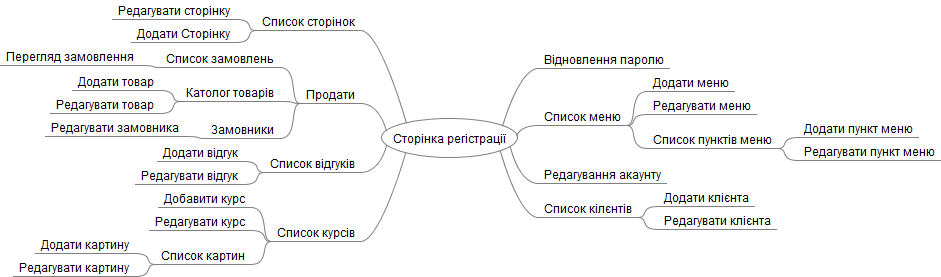
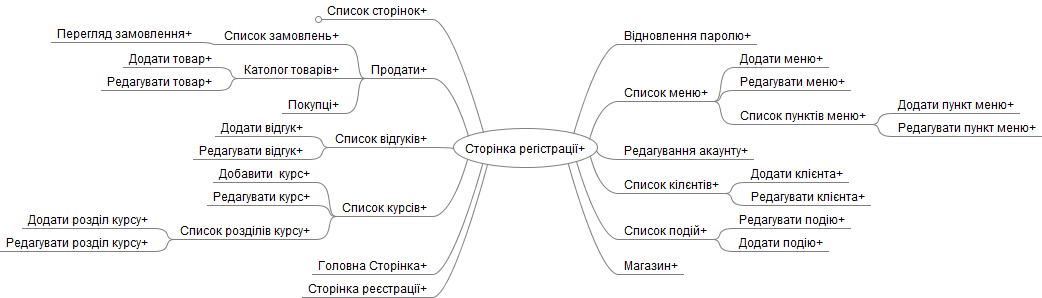
added admin panel pages

Changed region(s): [[0.0, 0.0, 1.0, 1.0], [0.5855, 0.0866, 0.7396, 0.1733], [0.5855, 0.8664, 0.6472, 0.9242]]

diff --git a/mind map/the-format.mm b/mind map/the-format.mm
@@ -14,7 +14,7 @@
 <node CREATED="1547198341292" ID="ID_1950729229" MODIFIED="1547200709509" TEXT="&#x420;&#x435;&#x434;&#x430;&#x433;&#x443;&#x432;&#x430;&#x442;&#x438; &#x43f;&#x443;&#x43d;&#x43a;&#x442; &#x43c;&#x435;&#x43d;&#x44e;+"/>
 </node>
 </node>
-<node CREATED="1547198404253" ID="ID_1971897167" MODIFIED="1547198408077" POSITION="left" TEXT="&#x41f;&#x440;&#x43e;&#x434;&#x430;&#x442;&#x438;">
+<node CREATED="1547198404253" ID="ID_1971897167" MODIFIED="1547457686519" POSITION="left" TEXT="&#x41f;&#x440;&#x43e;&#x434;&#x430;&#x442;&#x438;+">
 <node CREATED="1547198430360" ID="ID_1851515563" MODIFIED="1547211575397" TEXT="&#x421;&#x43f;&#x438;&#x441;&#x43e;&#x43a; &#x437;&#x430;&#x43c;&#x43e;&#x432;&#x43b;&#x435;&#x43d;&#x44c;+">
 <node CREATED="1547198725301" ID="ID_288573562" MODIFIED="1547213133022" TEXT="&#x41f;&#x435;&#x440;&#x435;&#x433;&#x43b;&#x44f;&#x434; &#x437;&#x430;&#x43c;&#x43e;&#x432;&#x43b;&#x435;&#x43d;&#x43d;&#x44f;+"/>
 </node>
@@ -24,28 +24,29 @@
 </node>
 <node CREATED="1547198789395" ID="ID_286458740" MODIFIED="1547217885314" TEXT="&#x41f;&#x43e;&#x43a;&#x443;&#x43f;&#x446;&#x456;+"/>
 </node>
-<node CREATED="1547199309106" ID="ID_1348257814" MODIFIED="1547199318163" POSITION="right" TEXT="&#x420;&#x435;&#x434;&#x430;&#x433;&#x443;&#x432;&#x430;&#x43d;&#x43d;&#x44f; &#x430;&#x43a;&#x430;&#x443;&#x43d;&#x442;&#x443;"/>
-<node CREATED="1547199354442" ID="ID_1882823716" MODIFIED="1547199363402" POSITION="left" TEXT="&#x421;&#x43f;&#x438;&#x441;&#x43e;&#x43a; &#x432;&#x456;&#x434;&#x433;&#x443;&#x43a;&#x456;&#x432;">
-<node CREATED="1547199371397" ID="ID_209997267" MODIFIED="1547199378924" TEXT="&#x414;&#x43e;&#x434;&#x430;&#x442;&#x438; &#x432;&#x456;&#x434;&#x433;&#x443;&#x43a;"/>
-<node CREATED="1547199385283" ID="ID_1968384156" MODIFIED="1547199390859" TEXT="&#x420;&#x435;&#x434;&#x430;&#x433;&#x443;&#x432;&#x430;&#x442;&#x438; &#x432;&#x456;&#x434;&#x433;&#x443;&#x43a;"/>
+<node CREATED="1547199309106" ID="ID_1348257814" MODIFIED="1547540590623" POSITION="right" TEXT="&#x420;&#x435;&#x434;&#x430;&#x433;&#x443;&#x432;&#x430;&#x43d;&#x43d;&#x44f; &#x430;&#x43a;&#x430;&#x443;&#x43d;&#x442;&#x443;+"/>
+<node CREATED="1547199354442" ID="ID_1882823716" MODIFIED="1547462148092" POSITION="left" TEXT="&#x421;&#x43f;&#x438;&#x441;&#x43e;&#x43a; &#x432;&#x456;&#x434;&#x433;&#x443;&#x43a;&#x456;&#x432;+">
+<node CREATED="1547199371397" ID="ID_209997267" MODIFIED="1547463736719" TEXT="&#x414;&#x43e;&#x434;&#x430;&#x442;&#x438; &#x432;&#x456;&#x434;&#x433;&#x443;&#x43a;+"/>
+<node CREATED="1547199385283" ID="ID_1968384156" MODIFIED="1547463738167" TEXT="&#x420;&#x435;&#x434;&#x430;&#x433;&#x443;&#x432;&#x430;&#x442;&#x438; &#x432;&#x456;&#x434;&#x433;&#x443;&#x43a;+"/>
 </node>
-<node CREATED="1547199464249" ID="ID_114619887" MODIFIED="1547199471786" POSITION="right" TEXT="&#x421;&#x43f;&#x438;&#x441;&#x43e;&#x43a; &#x43a;&#x456;&#x43b;&#x454;&#x43d;&#x442;&#x456;&#x432;">
-<node CREATED="1547199476483" ID="ID_427654842" MODIFIED="1547199482635" TEXT="&#x414;&#x43e;&#x434;&#x430;&#x442;&#x438; &#x43a;&#x43b;&#x456;&#x454;&#x43d;&#x442;&#x430;"/>
-<node CREATED="1547199485203" ID="ID_1228656246" MODIFIED="1547199495483" TEXT="&#x420;&#x435;&#x434;&#x430;&#x433;&#x443;&#x432;&#x430;&#x442;&#x438; &#x43a;&#x43b;&#x456;&#x454;&#x43d;&#x442;&#x430;"/>
+<node CREATED="1547199464249" ID="ID_114619887" MODIFIED="1547476581432" POSITION="right" TEXT="&#x421;&#x43f;&#x438;&#x441;&#x43e;&#x43a; &#x43a;&#x456;&#x43b;&#x454;&#x43d;&#x442;&#x456;&#x432;+">
+<node CREATED="1547199476483" ID="ID_427654842" MODIFIED="1547479858410" TEXT="&#x414;&#x43e;&#x434;&#x430;&#x442;&#x438; &#x43a;&#x43b;&#x456;&#x454;&#x43d;&#x442;&#x430;+"/>
+<node CREATED="1547199485203" ID="ID_1228656246" MODIFIED="1547479864812" TEXT="&#x420;&#x435;&#x434;&#x430;&#x433;&#x443;&#x432;&#x430;&#x442;&#x438; &#x43a;&#x43b;&#x456;&#x454;&#x43d;&#x442;&#x430;+"/>
 </node>
-<node CREATED="1547199694928" ID="ID_578432295" MODIFIED="1547199791945" POSITION="left" TEXT="&#x421;&#x43f;&#x438;&#x441;&#x43e;&#x43a; &#x43a;&#x443;&#x440;&#x441;&#x456;&#x432;">
-<node CREATED="1547199751930" ID="ID_622744467" MODIFIED="1547199812642" TEXT="&#x414;&#x43e;&#x431;&#x430;&#x432;&#x438;&#x442;&#x438; &#x43a;&#x443;&#x440;&#x441;"/>
-<node CREATED="1547199817320" ID="ID_300753275" MODIFIED="1547199825794" TEXT="&#x420;&#x435;&#x434;&#x430;&#x433;&#x443;&#x432;&#x430;&#x442;&#x438; &#x43a;&#x443;&#x440;&#x441;"/>
-<node CREATED="1547199984018" ID="ID_1779984505" MODIFIED="1547200021968" TEXT="&#x421;&#x43f;&#x438;&#x441;&#x43e;&#x43a; &#x43a;&#x430;&#x440;&#x442;&#x438;&#x43d;">
-<node CREATED="1547200029826" ID="ID_1140758052" MODIFIED="1547200037357" TEXT="&#x414;&#x43e;&#x434;&#x430;&#x442;&#x438; &#x43a;&#x430;&#x440;&#x442;&#x438;&#x43d;&#x443;"/>
-<node CREATED="1547200039021" ID="ID_4598594" MODIFIED="1547200047113" TEXT="&#x420;&#x435;&#x434;&#x430;&#x433;&#x443;&#x432;&#x430;&#x442;&#x438; &#x43a;&#x430;&#x440;&#x442;&#x438;&#x43d;&#x443;"/>
+<node CREATED="1547199694928" ID="ID_578432295" MODIFIED="1547466469021" POSITION="left" TEXT="&#x421;&#x43f;&#x438;&#x441;&#x43e;&#x43a; &#x43a;&#x443;&#x440;&#x441;&#x456;&#x432;+">
+<node CREATED="1547199751930" ID="ID_622744467" MODIFIED="1547470278363" TEXT="&#x414;&#x43e;&#x431;&#x430;&#x432;&#x438;&#x442;&#x438;  &#x43a;&#x443;&#x440;&#x441;+"/>
+<node CREATED="1547199817320" ID="ID_300753275" MODIFIED="1547470279676" TEXT="&#x420;&#x435;&#x434;&#x430;&#x433;&#x443;&#x432;&#x430;&#x442;&#x438; &#x43a;&#x443;&#x440;&#x441;+"/>
+<node CREATED="1547199984018" ID="ID_1779984505" MODIFIED="1547469437839" TEXT="&#x421;&#x43f;&#x438;&#x441;&#x43e;&#x43a; &#x440;&#x43e;&#x437;&#x434;&#x456;&#x43b;&#x456;&#x432; &#x43a;&#x443;&#x440;&#x441;&#x443;+">
+<node CREATED="1547200029826" ID="ID_1140758052" MODIFIED="1547468813504" TEXT="&#x414;&#x43e;&#x434;&#x430;&#x442;&#x438; &#x440;&#x43e;&#x437;&#x434;&#x456;&#x43b; &#x43a;&#x443;&#x440;&#x441;&#x443;+"/>
+<node CREATED="1547200039021" ID="ID_4598594" MODIFIED="1547468818588" TEXT="&#x420;&#x435;&#x434;&#x430;&#x433;&#x443;&#x432;&#x430;&#x442;&#x438; &#x440;&#x43e;&#x437;&#x434;&#x456;&#x43b; &#x43a;&#x443;&#x440;&#x441;&#x443;+"/>
 </node>
 </node>
-<node CREATED="1547201225131" ID="ID_1782799535" MODIFIED="1547201347372" POSITION="right" TEXT="&#x41a;&#x430;&#x43b;&#x435;&#x43d;&#x434;&#x430;&#x440; &#x43f;&#x43e;&#x434;&#x456;&#x439;">
-<node CREATED="1547201351317" ID="ID_192651755" MODIFIED="1547201357107" TEXT="&#x421;&#x43f;&#x438;&#x441;&#x43e;&#x43a; &#x43f;&#x43e;&#x434;&#x456;&#x439;">
-<node CREATED="1547201378027" ID="ID_228492416" MODIFIED="1547201394628" TEXT="&#x420;&#x435;&#x434;&#x430;&#x433;&#x443;&#x432;&#x430;&#x442;&#x438; &#x43f;&#x43e;&#x434;&#x456;&#x44e;"/>
+<node CREATED="1547201225131" ID="ID_1782799535" MODIFIED="1547541251643" POSITION="right" TEXT="&#x421;&#x43f;&#x438;&#x441;&#x43e;&#x43a; &#x43f;&#x43e;&#x434;&#x456;&#x439;+">
+<node CREATED="1547201351317" ID="ID_192651755" MODIFIED="1547542634259" TEXT="&#x420;&#x435;&#x434;&#x430;&#x433;&#x443;&#x432;&#x430;&#x442;&#x438; &#x43f;&#x43e;&#x434;&#x456;&#x44e;+"/>
+<node CREATED="1547201368306" ID="ID_1269185095" MODIFIED="1547542638321" TEXT="&#x414;&#x43e;&#x434;&#x430;&#x442;&#x438; &#x43f;&#x43e;&#x434;&#x456;&#x44e;+"/>
 </node>
-<node CREATED="1547201368306" ID="ID_1269185095" MODIFIED="1547201374501" TEXT="&#x414;&#x43e;&#x434;&#x430;&#x442;&#x438; &#x43f;&#x43e;&#x434;&#x456;&#x44e;"/>
-</node>
+<node CREATED="1547479884356" ID="ID_1402691561" MODIFIED="1547557728382" POSITION="left" TEXT="&#x413;&#x43e;&#x43b;&#x43e;&#x432;&#x43d;&#x430; &#x421;&#x442;&#x43e;&#x440;&#x456;&#x43d;&#x43a;&#x430;+"/>
+<node CREATED="1547479900297" ID="ID_982682044" MODIFIED="1547559047760" POSITION="right" TEXT="&#x41c;&#x430;&#x433;&#x430;&#x437;&#x438;&#x43d;+"/>
+<node CREATED="1547479908904" ID="ID_1284023660" MODIFIED="1547559044600" POSITION="left" TEXT="&#x421;&#x442;&#x43e;&#x440;&#x456;&#x43d;&#x43a;&#x430; &#x440;&#x435;&#x454;&#x441;&#x442;&#x440;&#x430;&#x446;&#x456;&#x457;+"/>
 </node>
 </map>
